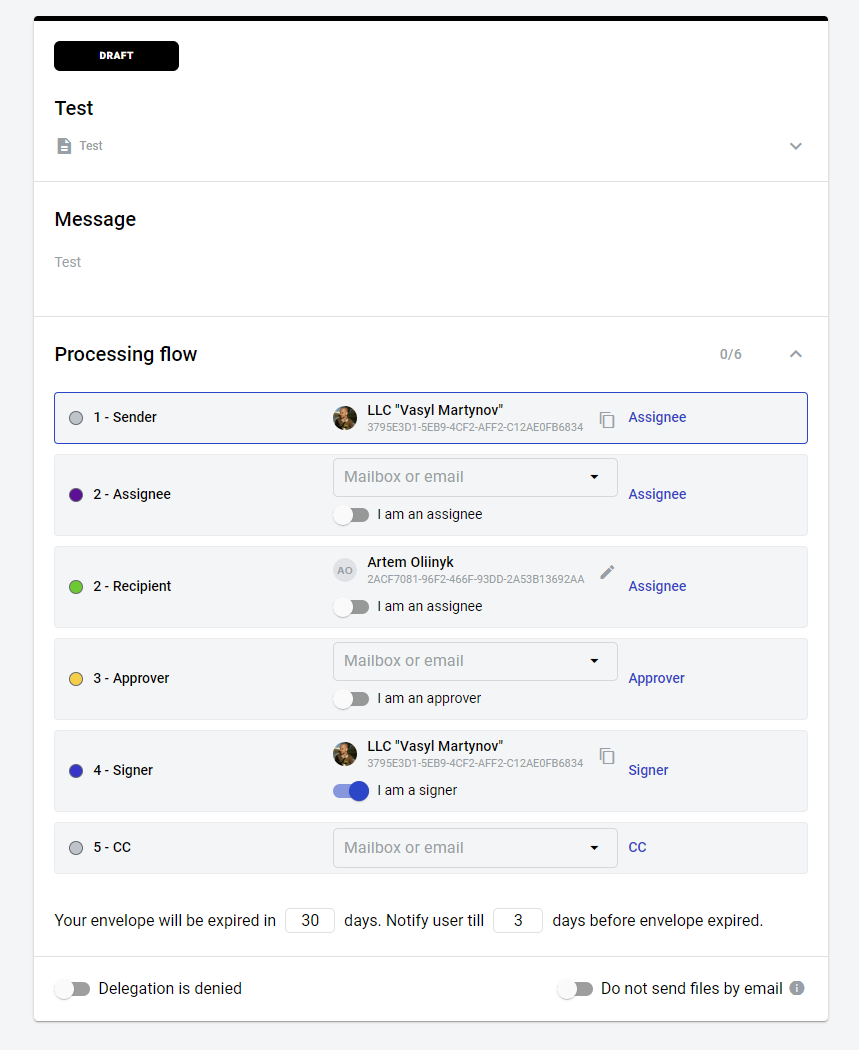
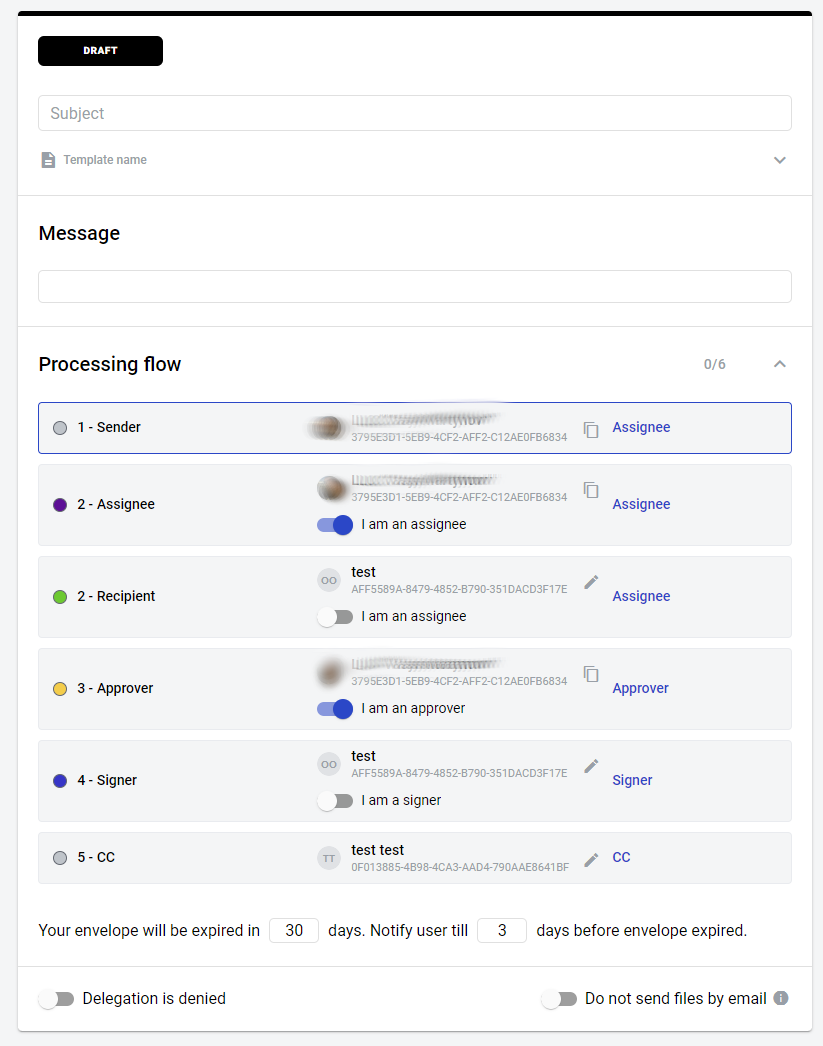
fixes and anonimization

diff --git a/docs/source/pages/howToWorkWithPlatform/mainApplication/templateList/templateManagement/documentManagementOnTemplate/documentManagement.rst b/docs/source/pages/howToWorkWithPlatform/mainApplication/templateList/templateManagement/documentManagementOnTemplate/documentManagement.rst
@@ -8,39 +8,39 @@ This section describes all functionality of document editor. Document editor pag
    :width: 1440
    :align: center
 
-1. **Documents management menu**. This menu allows to manage documen ts inside the tempalate.
+1. **Documents management menu**. This menu allows to view, create, reorder and delete documents inside the template
 
-2. **Undo/Redo options** related to actions inside document. Functionality is still in development.
+2. **Undo/Redo options** related to actions inside document. Functionality is still in development
 
-3. **Document zoom functionality**. It allows to zoom documents inside template. Allowed options: Fit, 50%, 75%, 100%, 125%, 150%, 200%.
+3. **Document zoom functionality**. It allows to zoom documents inside template. Allowed options: Fit, 50%, 75%, 100%, 125%, 150%, 200%
 
-4. **Text heading**. It allows to set the text heading inside document (paragraph, cell). Allowed options: Paragraph, Header H1, Header H2, Header H3, Header H4.
+4. **Text heading**. It allows to set the text heading inside document (paragraph, cell). Allowed options: Paragraph, Header H1, Header H2, Header H3, Header H4
 
-5. **Text font**. It allows to set text font inside document (paragraph, cell). Allowed options: Arial, Calibri, Courier New, Gergia, Roboto, Tahoma, Times New Roman, Verdana.
+5. **Text font**. It allows to set text font inside document (paragraph, cell). Allowed options: Arial, Calibri, Courier New, Gergia, Roboto, Tahoma, Times New Roman, Verdana
 
-6. **Text size**. It allows to set text size inside document (paragraph, cell). Allowed options: Tiny, Small, Default, Big, Huge.
+6. **Text size**. It allows to set text size inside document (paragraph, cell). Allowed options: Tiny, Small, Default, Big, Huge
 
-7. **Text styles**. It allows to apply styles to text, paragraph or cell. B - bold text style, I - italic text style, underscored U - underlined text style, underscored A - colored text, paint icon - colored background.
+7. **Text styles**. It allows to apply styles to text, paragraph or cell. B - bold text style, I - italic text style, underscored U - underlined text style, underscored A - colored text, paint icon - colored background
 
-8. **Text horizontal align**. It allows to apply horizontal text align in paragraph or cell. Allowed options: align left, align center, align right, justify text.
+8. **Text horizontal align**. It allows to apply horizontal text align in paragraph or cell. Allowed options: align left, align center, align right, justify text
 
-9. **Add link**. It allows to insert link with custom text to the document. :ref:`Link functionality documentation <addLinkTemplate>`
+9. **Add link**. It allows to insert link with custom text to the document :ref:`Link functionality documentation <addLinkTemplate>`
 
-10. **Add image**. It allows to add image to hte document. :ref:`Image functionality documentation <addImageTemplate>`
+10. **Add image**. It allows to add image to hte document :ref:`Image functionality documentation <addImageTemplate>`
 
-11. **Add table**. It allows to add static tables to the document. User is able to choose table columns and rows quantity. Max value is 10x10. :ref:`Static table documentation <addStaticTable>`
+11. **Add table**. It allows to add static tables to the document. User is able to choose table columns and rows quantity. Max value is 10x10 :ref:`Static table documentation <addStaticTable>`
 
-12. **Add list**. It allows to add list to the document. Allowed options: numbered list and bulleted list.
+12. **Add list**. It allows to add list to the document. Allowed options: numbered list and bulleted list
 
-13. **Page break**. It allows to set a mark after which new page will be started in the printed version of the document. In the digital version it is marked as a grey line.
+13. **Page break**. It allows to set a mark after which new page will be started in the printed version of the document. In the digital version it is marked as a grey line
 
-14. **Split document**. It allows to split document vertically on two similar parts. All content which has been added before applying split option will be added to the left part of the document.
+14. **Split document**. It allows to split document vertically on two similar parts. All content which has been added before applying split option will be added to the left part of the document
 
-15. **Document options**. This action allows to open context menu with document options. Allowed options: Clone, Delete, Page size, Page orientation.
+15. **Document options**. This action allows to open context menu with document options. Allowed options: Clone, Delete, Page size, Page orientation
 
-16. **Right side bar menu**. Menu allows to add dynamic field, configure template details and template flow. Menu opens by click or opened by default for screen resolution bigger than 1920p.
+16. **Right side bar menu**. Menu allows to add dynamic field, configure template details and template flow. Menu opens by click or opened by default for screen resolution bigger than 1920p
 
-17. **Document editor area**. Area where customer is able to add text (typing or pasting it), add images, tables, fields etc.
+17. **Document editor area**. Area where customer is able to add text (typing or pasting it), add images, tables, fields etc
 
 ---------------------------------
 

diff --git a/docs/source/pages/howToWorkWithPlatform/mainApplication/envelope/envelopeCreation/envelopeCreation.rst b/docs/source/pages/howToWorkWithPlatform/mainApplication/envelope/envelopeCreation/envelopeCreation.rst
@@ -32,10 +32,10 @@ There are several ways to create an envelope:
    :width: 400
    :align: center
 
-Envelope draft will be opened.
+Envelope draft will be opened
 
 .. image:: picEnvelopeCreation/envelopeFlow.png
    :width: 400
    :align: center
 
-From this page you will have to fill all roles that take part in envelope processing flow (unless they are predifined on the template level). After all mandatory fields will be filled you can send envelope to the next participant of the flow.
+From this page you will have to fill all roles that take part in envelope processing flow (unless they are predifined on the template level). Note that you can enable "I am assignee/approver/signer" attribute to predefine your own mailbox for specified role. After all mandatory fields will be filled you can send envelope to the next participant of the flow.
